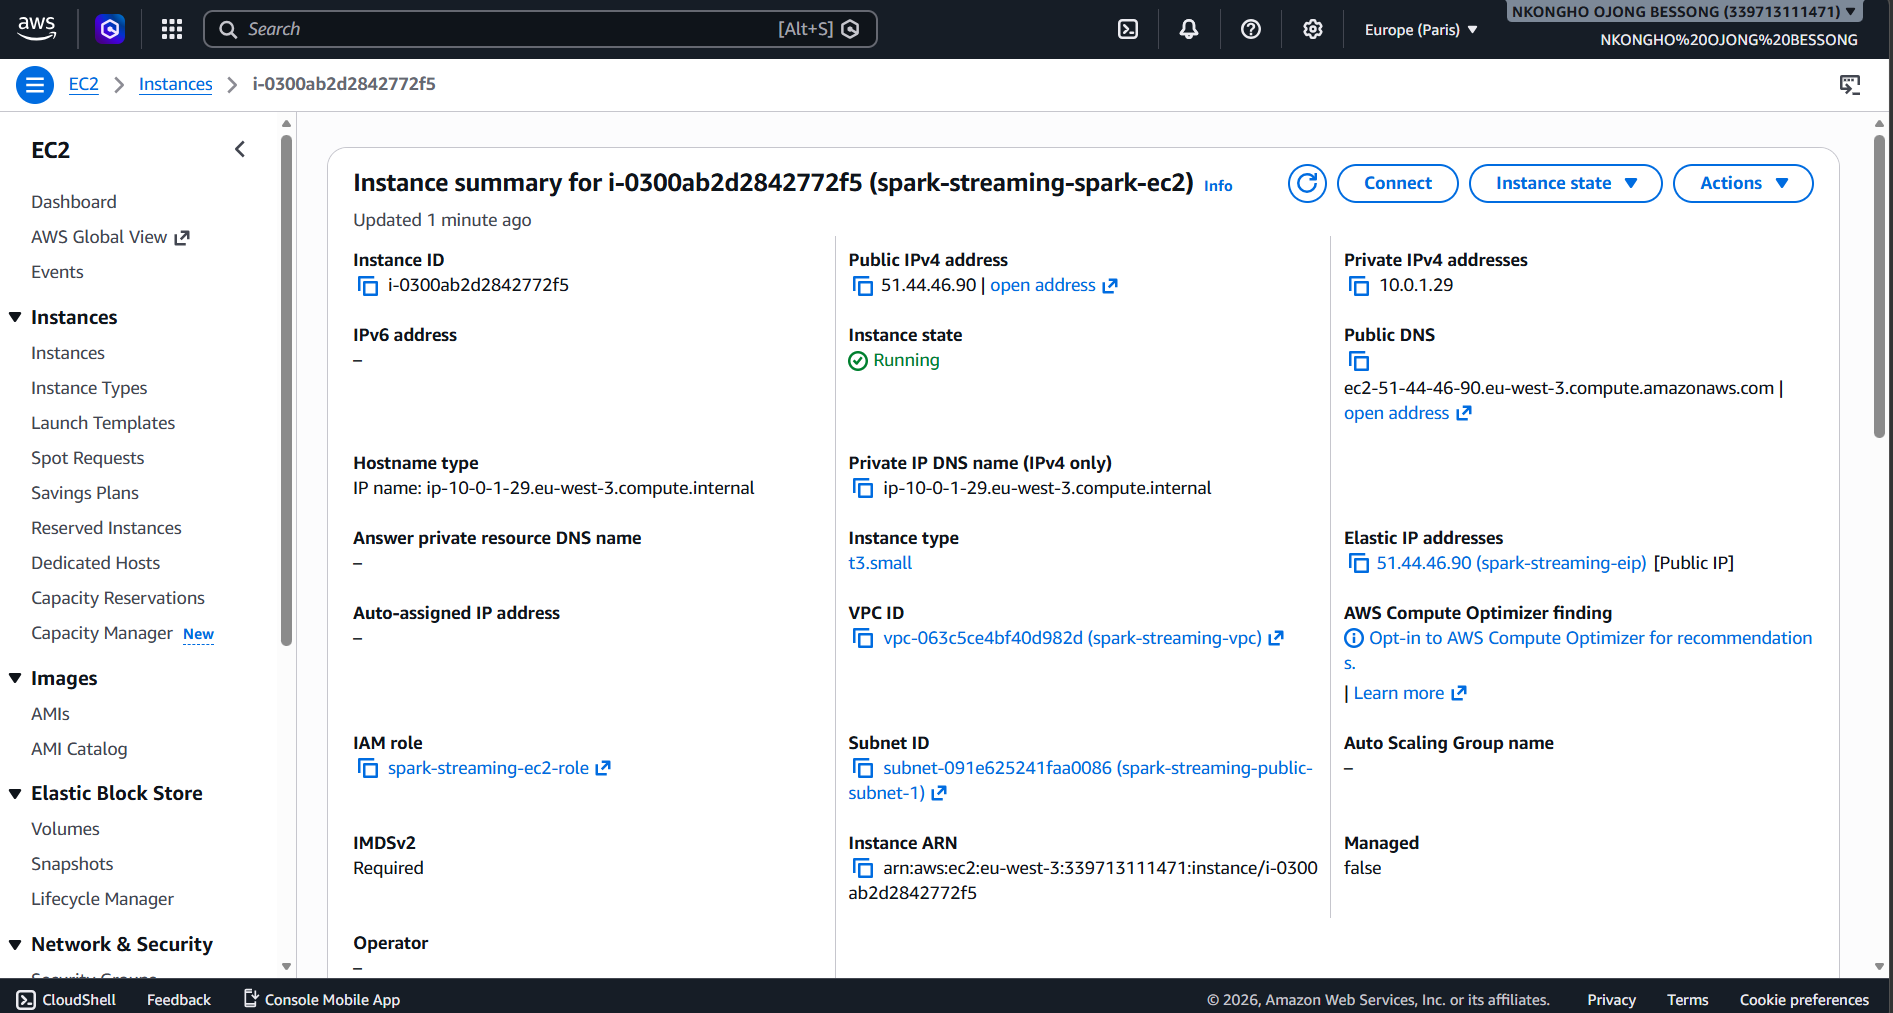
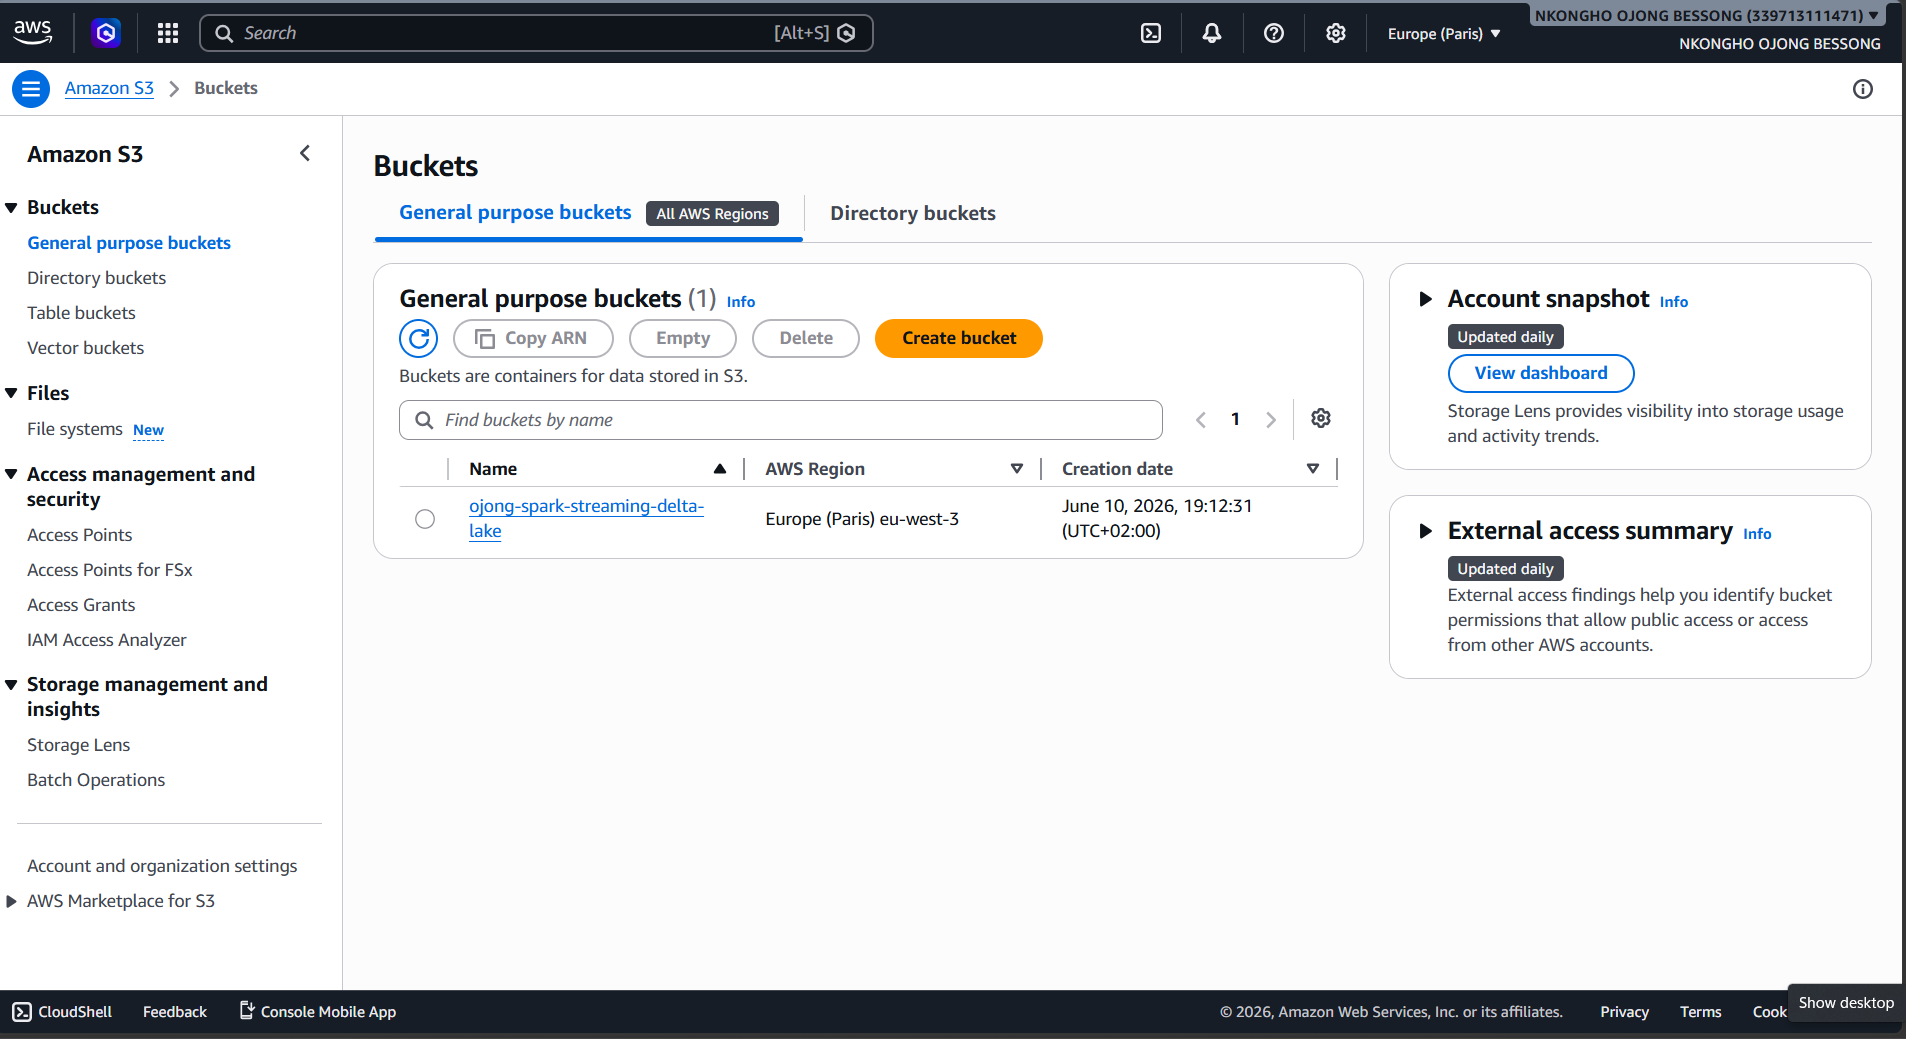
fix: correct mismatched AWS screenshots (S3 bucket, VPC, Delta Lake output) and refresh Parquet file count to 78

diff --git a/README.md b/README.md
@@ -294,7 +294,7 @@ Deploying to AWS surfaced four issues that never appeared in local Docker testin
 
 ### AWS Infrastructure — S3 Delta Lake Bucket
 ![S3 Bucket](docs/images/aws-s3-bucket.png)
-*ojong-spark-streaming-delta-lake — Europe (Paris) eu-west-3 — created June 10 2026*
+*ojong-spark-streaming-delta-lake — Europe (Paris) eu-west-3*
 
 ### AWS Infrastructure — Delta Lake Folder Structure
 ![S3 Delta Lake Folders](docs/images/aws-s3-delta-lake-folders.png)
@@ -310,7 +310,7 @@ Deploying to AWS surfaced four issues that never appeared in local Docker testin
 
 ### AWS — Spark Structured Streaming Writing to S3 Delta Lake
 ![Spark Streaming S3 Output](docs/images/aws-s3-spark-streaming-output.png)
-*33 Parquet files in delta/weather/year=2026/month=6/day=11/hour=10/ — Spark Structured Streaming actively writing micro-batches to S3 Delta Lake from EC2*
+*78 Parquet files in delta/weather/year=2026/month=6/day=11/hour=14/ — Spark Structured Streaming actively writing micro-batches to S3 Delta Lake from EC2*
 
 
 ## 📍 Status
@@ -325,7 +325,7 @@ Deploying to AWS surfaced four issues that never appeared in local Docker testin
 - ✅ 39 pytest unit tests, 79% coverage, CI green
 - ✅ Terraform modules — networking, compute, storage — 23 AWS resources provisioned in eu-west-3
 - ✅ AWS deployment — EC2 t3.medium running full pipeline, S3 Delta Lake bucket live
-- ✅ Spark Structured Streaming confirmed writing live to S3 Delta Lake on AWS — verified with 33 Parquet files and 5 transaction log commits in a single hour
+- ✅ Spark Structured Streaming confirmed writing live to S3 Delta Lake on AWS — verified across two separate sessions, with 78 Parquet files written to a single hourly partition
 
 **In progress:**
 - 🔄 Airflow orchestration DAG
